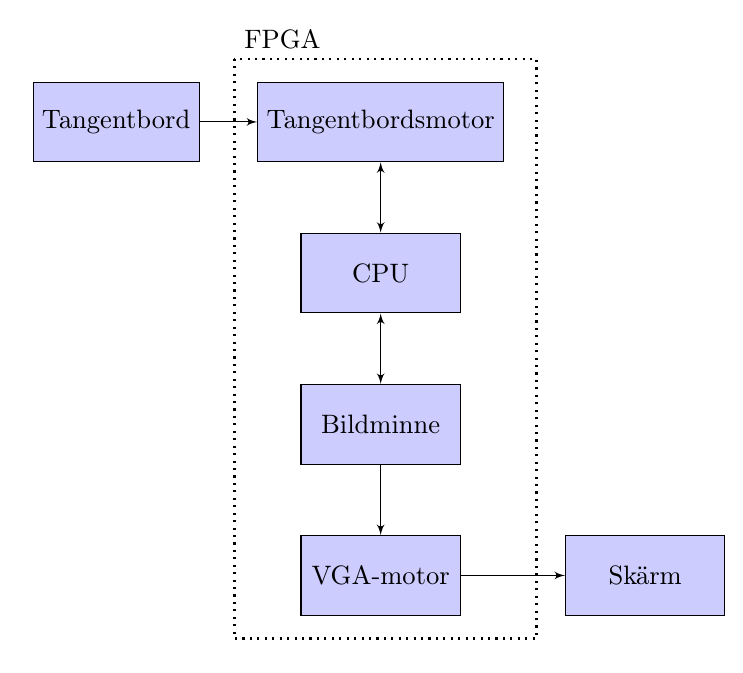
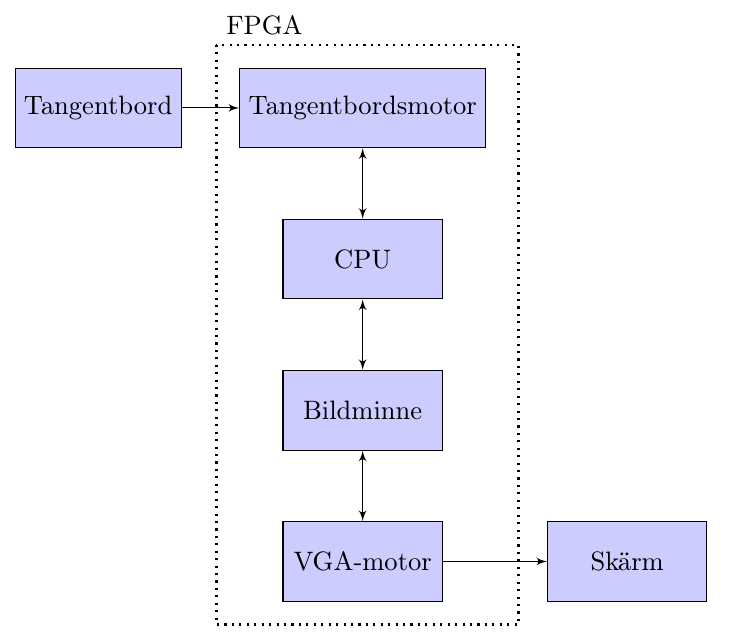
VGA-motor does have signals going in to pictmem. Update drawing

diff --git a/redovisning/Rapport.tex b/redovisning/Rapport.tex
@@ -98,7 +98,7 @@ minimum height=3em, minimum width=6em]
 	
 	\node [block, node distance=2cm, below of=memory] (driver) {VGA-motor};
 	\node [block, right of=driver, node distance=3.5cm] (vga) {Skärm};
-	\draw [->] (memory) -- node {} (driver);
+	\draw [<->] (memory) -- node {} (driver);
 	\draw [->] (driver) -- node {} (vga);
 	\draw[thick,dotted] ($(keyboarddriver.north west)+(-0.3,0.3)$)  rectangle ($(driver.south east)+(1,-0.3)$) node[pos=0] {FPGA};
 	\end{tikzpicture}
